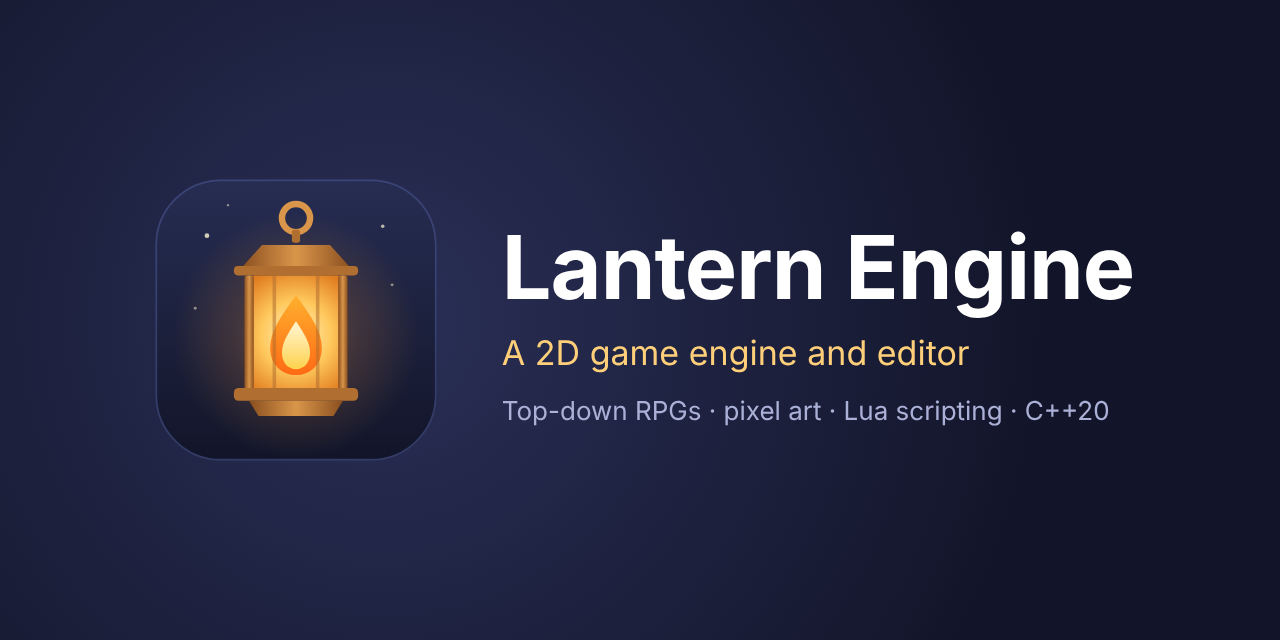
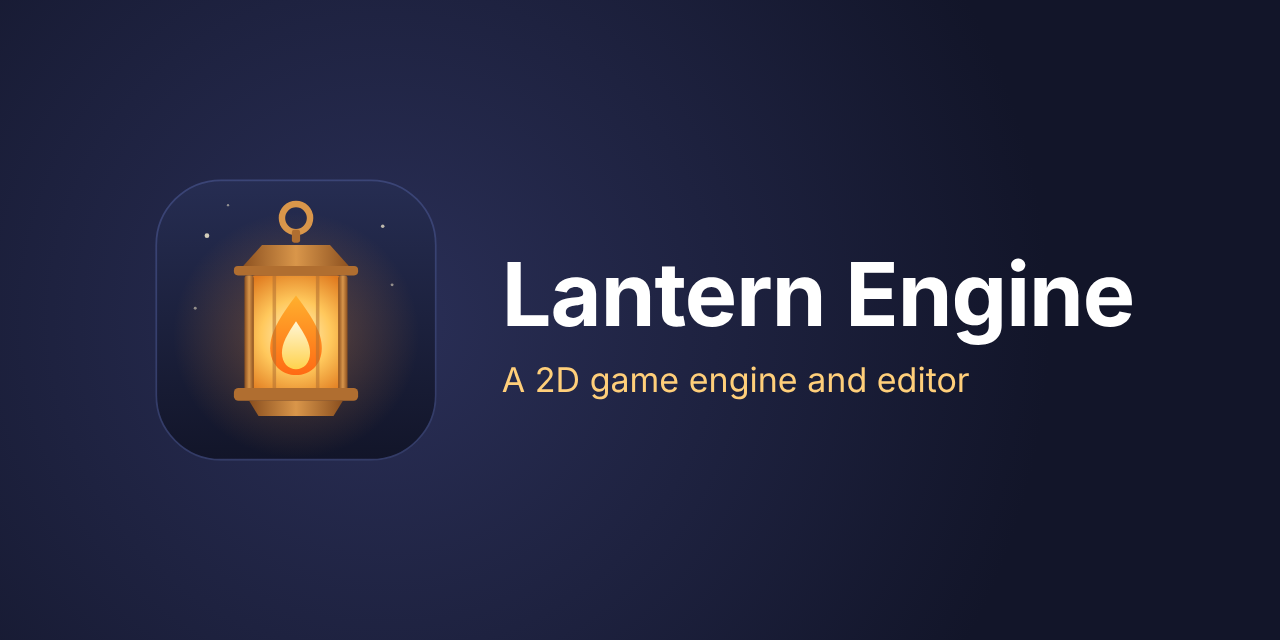
Lantern is for all kinds of 2D games
The README's tagline and introduction no longer suggest it is only for
top-down RPGs, and the social preview image drops that line.

Changed region(s): [[0.375, 0.3438, 0.9062, 0.6562], [0.375, 0.375, 0.4062, 0.4062]]

diff --git a/README.md b/README.md
@@ -2,13 +2,12 @@
 
 # Lantern Engine
 
-## A 2D Game Engine and Editor for Indie Games.
+## A 2D Game Engine and Editor.
 
-**Lantern Engine** is an open-source, C++20 2D game engine with its own
-standalone editor, made for top-down RPGs, pixel-art adventures, tile-based
-and story-driven games. Build a game in the editor with no code, or with
-**Lua scripts** and no compiler. Then export it as a program players run
-without Lantern.
+**Lantern Engine** is an open-source, C++20 game engine with its own
+standalone editor, for making all kinds of 2D games. Build a game in the
+editor with no code, or with **Lua scripts** and no compiler. Then export it
+as a program players run without Lantern.
 
 Please read **[Getting started](docs/getting-started.md)** to go from a new
 project to a game you can share in half an hour.
